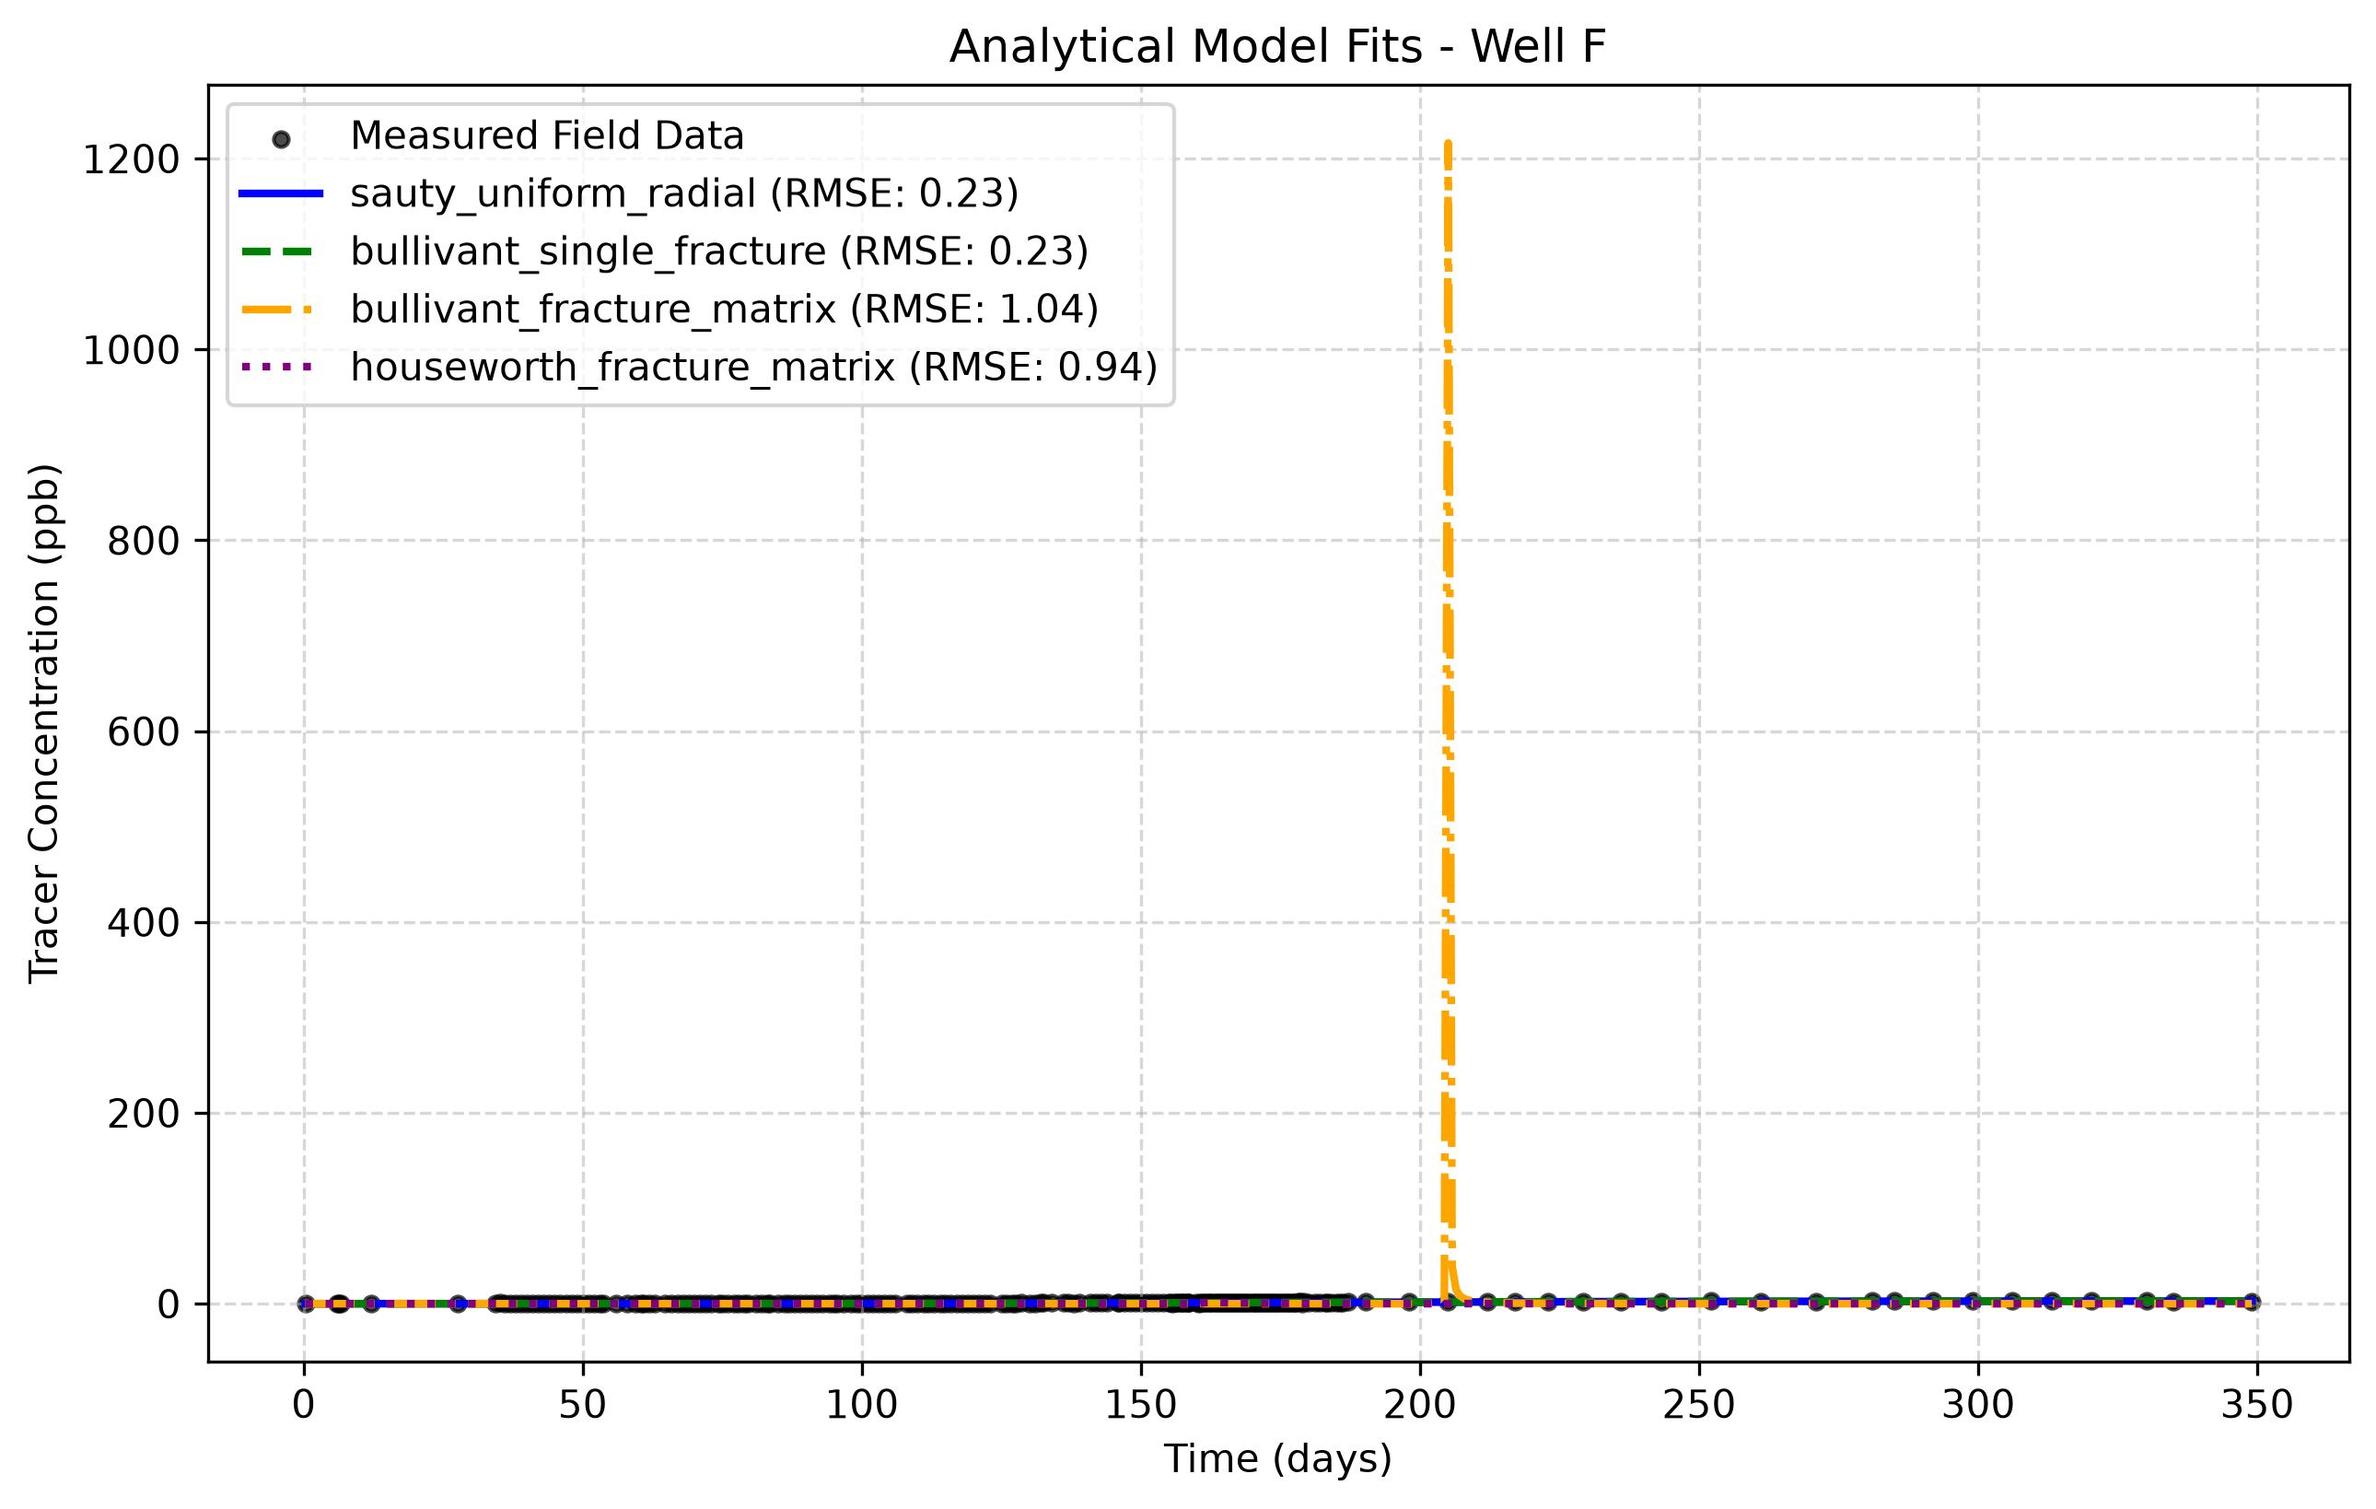
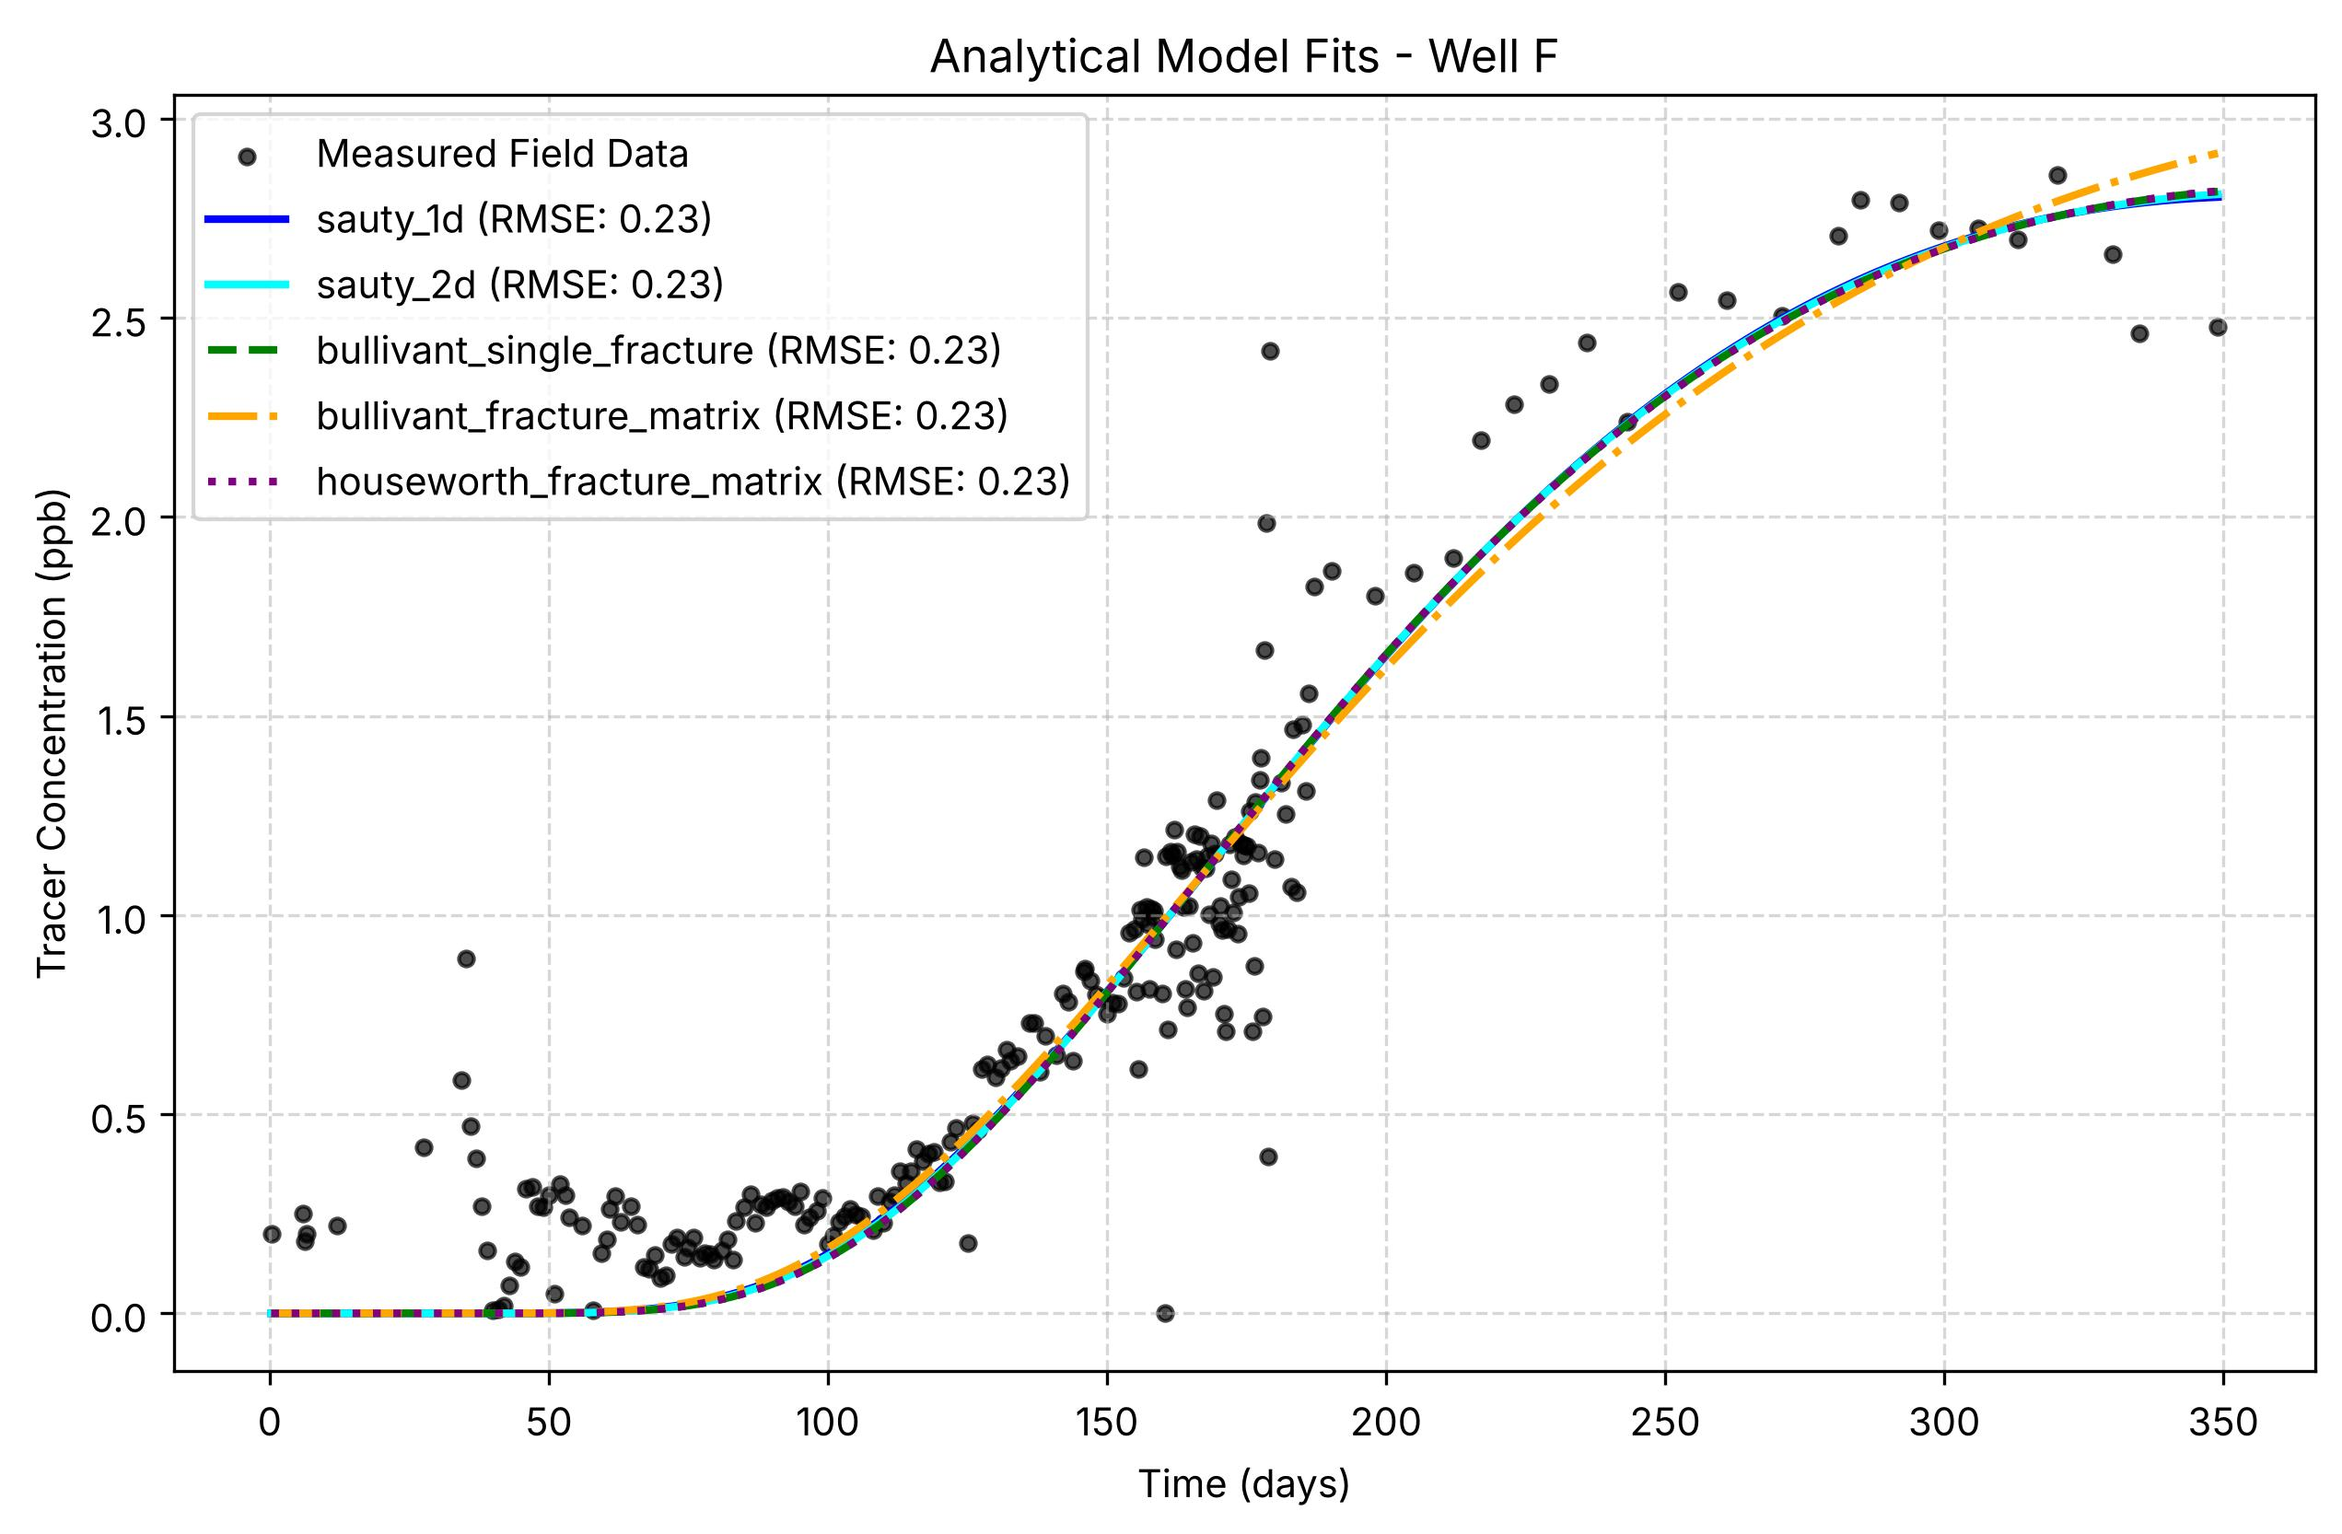
Fix fitting bugs and check models against the papers
- Fit parameters in log space; set amplitude guesses from the observed
  peak with wide bounds, so fracture-matrix fits no longer collapse to
  narrow spikes (well B RMSE 6.6 -> 1.6)
- Flag parameters that stop at a bound in the printout and CSV
- Bullivant single fracture: fit (t_m, w, L) as in the paper, Eq. 8,
  instead of (t_b, t_p) via t_m = 2 t_p - t_b; removes the ValueError
- Bullivant fracture-matrix: fit (t_b, w, L), Eq. 17, so t_p > t_b holds
  without a penalty value
- Houseworth: implement Eq. 57 (eta_0 = 0) in physical time; previous
  exponent did not match the paper
- Sauty: rename to sauty_1d (Eq. 19-21) and add sauty_2d (Eq. 42-44);
  Sauty gives no closed-form radial-flow solution for slug injection
- Initial guesses from a running-median peak to ignore single outliers
- Regenerate figures

Claude-Session: https://claude.ai/code/session_012rciNb3RLQHPSk3zMHuk9z

diff --git a/tracer_model.py b/tracer_model.py
@@ -20,7 +20,8 @@ WELL_PARAMS = {
 
 # Plot style per model: (color, linestyle)
 MODEL_STYLES = {
-    "sauty_uniform_radial": ("blue", "-"),
+    "sauty_1d": ("blue", "-"),
+    "sauty_2d": ("cyan", "-"),
     "bullivant_single_fracture": ("green", "--"),
     "bullivant_fracture_matrix": ("orange", "-."),
     "houseworth_fracture_matrix": ("purple", ":"),
@@ -52,122 +53,177 @@ def main():
 # ---------------------------------------------------------------- models
 # Each model takes time t (days) as an array and returns concentration (ppb).
 # Times outside a model's valid range return zero concentration.
+#
+# Equation numbers refer to the original papers. They differ from the
+# numbers in the project description (e.g. its "Eq. 30" for Houseworth is
+# the paper's Eq. 57).
 
 
-def sauty_uniform_radial(t, t_c, Pe, C_max):
-    """Sauty (1980) 1D advection-dispersion, scaled so the peak equals C_max.
+def sauty_1d(t, t_c, Pe, C_max):
+    """Sauty (1980) Eq. 19-21: slug injection, 1D uniform flow.
 
-    t_c: convective (mean travel) time, Pe: Peclet number.
+    t_c = X/u: convective travel time (days)
+    Pe = X/alpha_L: longitudinal Peclet number
+    C_max: peak concentration (ppb)
     """
     t = np.asarray(t, dtype=float)
     t_R = np.where(t > 0, t, np.nan) / t_c  # dimensionless time
 
-    # Dimensionless time of peak concentration and the scaling factor
-    t_Rmax = np.sqrt(1 + Pe ** (-2)) - 1 / Pe
-    K = np.sqrt(t_Rmax) * np.exp(Pe / (4 * t_Rmax) * (1 - t_Rmax) ** 2)
+    t_Rmax = np.sqrt(1 + Pe ** (-2)) - 1 / Pe  # Eq. 21
+    K = np.sqrt(t_Rmax) * np.exp(Pe / (4 * t_Rmax) * (1 - t_Rmax) ** 2)  # Eq. 20
 
-    C_R = K / np.sqrt(t_R) * np.exp(-Pe / (4 * t_R) * (1 - t_R) ** 2)
+    C_R = K / np.sqrt(t_R) * np.exp(-Pe / (4 * t_R) * (1 - t_R) ** 2)  # Eq. 19
     return np.nan_to_num(C_R * C_max)
 
 
-def bullivant_single_fracture(t, t_b, t_p, L):
-    """Bullivant & O'Sullivan (1989) single fracture model.
+def sauty_2d(t, t_c, Pe, C_max):
+    """Sauty (1980) Eq. 42-44: slug injection, 2D uniform flow, on the flow axis.
 
-    t_b: breakthrough time, t_p: peak time, L: amplitude.
+    Same parameters as sauty_1d. Includes transverse spreading, so the
+    response decays as 1/t_R instead of 1/sqrt(t_R).
     """
-    if t_b >= t_p:
-        raise ValueError("Breakthrough time must be less than peak time.")
+    t = np.asarray(t, dtype=float)
+    t_R = np.where(t > 0, t, np.nan) / t_c
 
+    t_Rmax = np.sqrt(1 + 4 * Pe ** (-2)) - 2 / Pe  # Eq. 44
+    K = t_Rmax * np.exp(Pe * (1 - t_Rmax) ** 2 / (4 * t_Rmax))  # Eq. 43
+
+    C_R = K / t_R * np.exp(-Pe * (1 - t_R) ** 2 / (4 * t_R))  # Eq. 42
+    return np.nan_to_num(C_R * C_max)
+
+
+def bullivant_single_fracture(t, t_m, w, L):
+    """Bullivant & O'Sullivan (1989) Eq. 8: single fracture.
+
+    t_m = RA/q: mean arrival time (days)
+    w = qR/(D_Tr A): Peclet number
+    L = (m/4Q)(w/(pi t_m))^0.5: amplitude (ppb day^0.5)
+    """
     t = np.asarray(t, dtype=float)
     t_v = np.where(t > 0, t, np.nan)
 
-    t_m = 2 * t_p - t_b  # mean arrival time
-    w = 6 * t_m * t_p / (t_m**2 - t_p**2)  # Peclet number
-
-    exponent = -w / 4 * (t_v - t_m) ** 2 / t_m / t_v
+    exponent = -w * (t_v - t_m) ** 2 / (4 * t_m * t_v)
     return np.nan_to_num(L * 2 * t_m / t_v**1.5 * np.exp(exponent))
 
 
-def bullivant_fracture_matrix(t, t_p, t_b, L):
-    """Bullivant & O'Sullivan (1989) fracture-matrix model.
+def bullivant_fracture_matrix(t, t_b, w, L):
+    """Bullivant & O'Sullivan (1989) Eq. 17: fracture with matrix diffusion.
 
-    t_p: peak time, t_b: advective breakthrough time, L: amplitude.
+    t_b = RA/q: advective breakthrough time (days)
+    w = (q/RA)(a^2/(D_m n_m^2)): fracture-to-matrix transport ratio
+    L = (m/Q)(t_b/(w pi))^0.5: amplitude (ppb day^1.5)
+    Peak time from Eq. 18: t_p = t_b (1 + 2/(3w)).
     """
     t = np.asarray(t, dtype=float)
-    if t_b >= t_p:
-        return np.full_like(t, 1e9)
-
     dt = np.where(t > t_b, t - t_b, np.nan)  # time after breakthrough
-    w = (2 / 3) * t_b / (t_p - t_b)  # Peclet number
 
     return np.nan_to_num(L / dt**1.5 * np.exp(-t_b / (w * dt)))
 
 
-def houseworth_fracture_matrix(t, t_a, Pe, V_m, A, eta_0=0.0):
-    """Houseworth et al. (2013) fracture-matrix model.
+def houseworth_fracture_matrix(t, t_a, beta, gamma, M):
+    """Houseworth et al. (2013) Eq. 57: fracture concentration, source in fracture.
 
-    t_a: advective arrival time, Pe: Peclet number,
-    V_m: cross-flow term, A: amplitude, eta_0: spatial offset.
+    Eq. 57 with eta_0 = 0 and v_mz = 0, written in physical time using
+    tau - xi = xi * theta, where theta = (t - t_a)/t_a:
+
+        C = M sqrt(beta/pi)/4 * theta^-1.5 * exp(-beta/(4 theta) - gamma theta/4)
+
+    t_a = z/v_f*: advective arrival time (days)
+    beta = xi/Pe = t_a D_m*/l^2: matrix-diffusion strength (dimensionless)
+    gamma = Pe xi V^2: loss by matrix cross-flow (dimensionless)
+    M = 2 M0/(A_f phi_f R_f z): amplitude (ppb)
+    With gamma = 0 this is the same curve as bullivant_fracture_matrix
+    with w = 4/beta, so gamma measures what the matrix flow adds.
     """
     t = np.asarray(t, dtype=float)
-    dt = np.where(t > t_a, t - t_a, np.nan)  # time after arrival
-    offset = 1.0 + eta_0
+    theta = np.where(t > t_a, (t - t_a) / t_a, np.nan)
 
-    diffusive_term = -Pe * offset**2 / (4.0 * dt)
-    crossflow_term = -Pe * V_m**2 * dt / 4.0
-
-    return np.nan_to_num(A * offset / dt**1.5 * np.exp(diffusive_term + crossflow_term))
+    exponent = -beta / (4 * theta) - gamma * theta / 4
+    return np.nan_to_num(M * np.sqrt(beta / np.pi) / 4 / theta**1.5 * np.exp(exponent))
 
 
 # --------------------------------------------------------------- fitting
 
 
+def robust_peak(t_obs, C_obs, window=5):
+    """Time and value of the peak of a running median, so single outliers
+    do not set the initial guesses."""
+    if len(C_obs) < window:
+        i = np.argmax(C_obs)
+        return t_obs[i], C_obs[i]
+    smooth = np.median(np.lib.stride_tricks.sliding_window_view(C_obs, window), axis=1)
+    i = np.argmax(smooth) + window // 2
+    return t_obs[i], smooth[i - window // 2]
+
+
 def fit_analytical_models(t_obs, C_obs):
-    """Fit every model to one well. Returns a list of result dicts."""
-    # Initial guesses from the observed peak
-    peak_idx = np.argmax(C_obs)
-    t_peak = t_obs[peak_idx] if t_obs[peak_idx] > 0 else 1.0
-    C_peak = C_obs[peak_idx] if C_obs[peak_idx] > 0 else 1.0
-    t_b_guess = t_peak * 0.5
+    """Fit every model to one well. Returns a list of result dicts.
+
+    Parameters are fitted as log values: all are positive and span several
+    orders of magnitude. Amplitude guesses are scaled so the initial curve
+    passes through the observed peak.
+    """
+    t_peak, C_peak = robust_peak(t_obs, C_obs)
     t_max = np.max(t_obs)
 
-    # model name: (function, parameter names, p0, lower bounds, upper bounds)
+    # Shape-parameter guesses consistent with a peak at t_peak
+    t_m0 = 1.2 * t_peak
+    w_sf0 = 6 * t_m0 * t_peak / (t_m0**2 - t_peak**2)  # B&O Eq. 9
+    t_b0 = 0.5 * t_peak
+    w_fm0 = (2 / 3) * t_b0 / (t_peak - t_b0)  # B&O Eq. 18
+    beta0 = 6.0  # Houseworth peak at theta = beta/6 when gamma = 0
+
+    # model name: (function, parameter names, shape p0, lower, upper)
+    # The last parameter is the amplitude; its p0 and bounds are set below.
     models_config = {
-        "sauty_uniform_radial": (
-            sauty_uniform_radial,
-            ["t_c", "Pe", "C_max"],
-            [t_peak, 10.0, C_peak],
-            [0.1, 0.1, 1e-5],
-            [t_max * 2.0, 500.0, C_peak * 5.0],
+        "sauty_1d": (
+            sauty_1d, ["t_c", "Pe", "C_max"],
+            [t_peak, 10.0], [0.01, 0.01], [10 * t_max, 1e4],
+        ),
+        "sauty_2d": (
+            sauty_2d, ["t_c", "Pe", "C_max"],
+            [t_peak, 10.0], [0.01, 0.01], [10 * t_max, 1e4],
         ),
         "bullivant_single_fracture": (
-            bullivant_single_fracture,
-            ["t_b", "t_p", "L"],
-            [t_b_guess, t_peak, C_peak],
-            [0.01, 0.1, 1e-5],
-            [t_peak * 0.99, t_max, C_peak * 10.0],
+            bullivant_single_fracture, ["t_m", "w", "L"],
+            [t_m0, w_sf0], [0.01, 0.01], [10 * t_max, 1e4],
         ),
         "bullivant_fracture_matrix": (
-            bullivant_fracture_matrix,
-            ["t_p", "t_b", "L"],
-            [t_peak, t_b_guess, C_peak],
-            [0.1, 0.01, 1e-5],
-            [t_max, t_peak * 0.99, C_peak * 10.0],
+            bullivant_fracture_matrix, ["t_b", "w", "L"],
+            [t_b0, w_fm0], [0.01, 1e-4], [t_max, 1e4],
         ),
         "houseworth_fracture_matrix": (
-            houseworth_fracture_matrix,
-            ["t_a", "Pe", "V_m", "A"],
-            [t_b_guess, 10.0, 0.1, C_peak],
-            [0.01, 0.1, 1e-4, 1e-5],
-            [t_peak * 0.99, 500.0, 10.0, C_peak * 10.0],
+            houseworth_fracture_matrix, ["t_a", "beta", "gamma", "M"],
+            [t_b0, beta0, 1e-3], [0.01, 1e-4, 1e-8], [t_max, 1e4, 1e4],
         ),
     }
 
     results = []
     for name, (func, param_names, p0, lower, upper) in models_config.items():
-        popt, _ = curve_fit(
-            func, t_obs, C_obs, p0=p0, bounds=(lower, upper), method="trf"
+        # Amplitude guess: make the initial curve pass through the peak
+        shape_at_peak = func(np.array([t_peak]), *p0, 1.0)[0]
+        amp0 = C_peak / shape_at_peak if shape_at_peak > 0 else C_peak
+        p0 = p0 + [amp0]
+        lower = lower + [amp0 * 1e-4]
+        upper = upper + [amp0 * 1e4]
+
+        def log_func(t, *log_p, func=func):
+            return func(t, *np.exp(log_p))
+
+        log_lower, log_upper = np.log(lower), np.log(upper)
+        log_p0 = np.clip(np.log(p0), log_lower + 1e-6, log_upper - 1e-6)
+        log_popt, _ = curve_fit(
+            log_func, t_obs, C_obs, p0=log_p0,
+            bounds=(log_lower, log_upper), method="trf", maxfev=20000,
         )
+        popt = np.exp(log_popt)
+
+        # Parameters within 0.1% of a bound are not really estimated
+        at_bound = [
+            p for p, q, lo, hi in zip(param_names, log_popt, log_lower, log_upper)
+            if q - lo < 1e-3 or hi - q < 1e-3
+        ]
+
         rmse = np.sqrt(np.mean((C_obs - func(t_obs, *popt)) ** 2))
         results.append(
             {
@@ -175,15 +231,19 @@ def fit_analytical_models(t_obs, C_obs):
                 "func": func,
                 "params": dict(zip(param_names, popt)),
                 "rmse": rmse,
+                "at_bound": at_bound,
             }
         )
     return results
 
 
 def print_fit_summary(all_fits):
-    print("\nFit summary")
+    print("\nFit summary  (* = parameter stopped at a bound, not estimated)")
     for fit in all_fits:
-        params = ", ".join(f"{k}={v:.4g}" for k, v in fit["params"].items())
+        params = ", ".join(
+            f"{k}={v:.4g}{'*' if k in fit['at_bound'] else ''}"
+            for k, v in fit["params"].items()
+        )
         print(f"  {fit['well'].upper()}  {fit['model']:<28} "
               f"RMSE={fit['rmse']:.3f}  {params}")
 
@@ -191,10 +251,11 @@ def print_fit_summary(all_fits):
 def save_fit_summary(all_fits, path):
     with open(path, "w", newline="") as f:
         writer = csv.writer(f)
-        writer.writerow(["well", "model", "rmse", "parameters"])
+        writer.writerow(["well", "model", "rmse", "parameters", "at_bound"])
         for fit in all_fits:
             params = "; ".join(f"{k}={v:.6g}" for k, v in fit["params"].items())
-            writer.writerow([fit["well"], fit["model"], f"{fit['rmse']:.6g}", params])
+            writer.writerow([fit["well"], fit["model"], f"{fit['rmse']:.6g}",
+                             params, "; ".join(fit["at_bound"])])
 
 
 # -------------------------------------------------------------- data I/O
